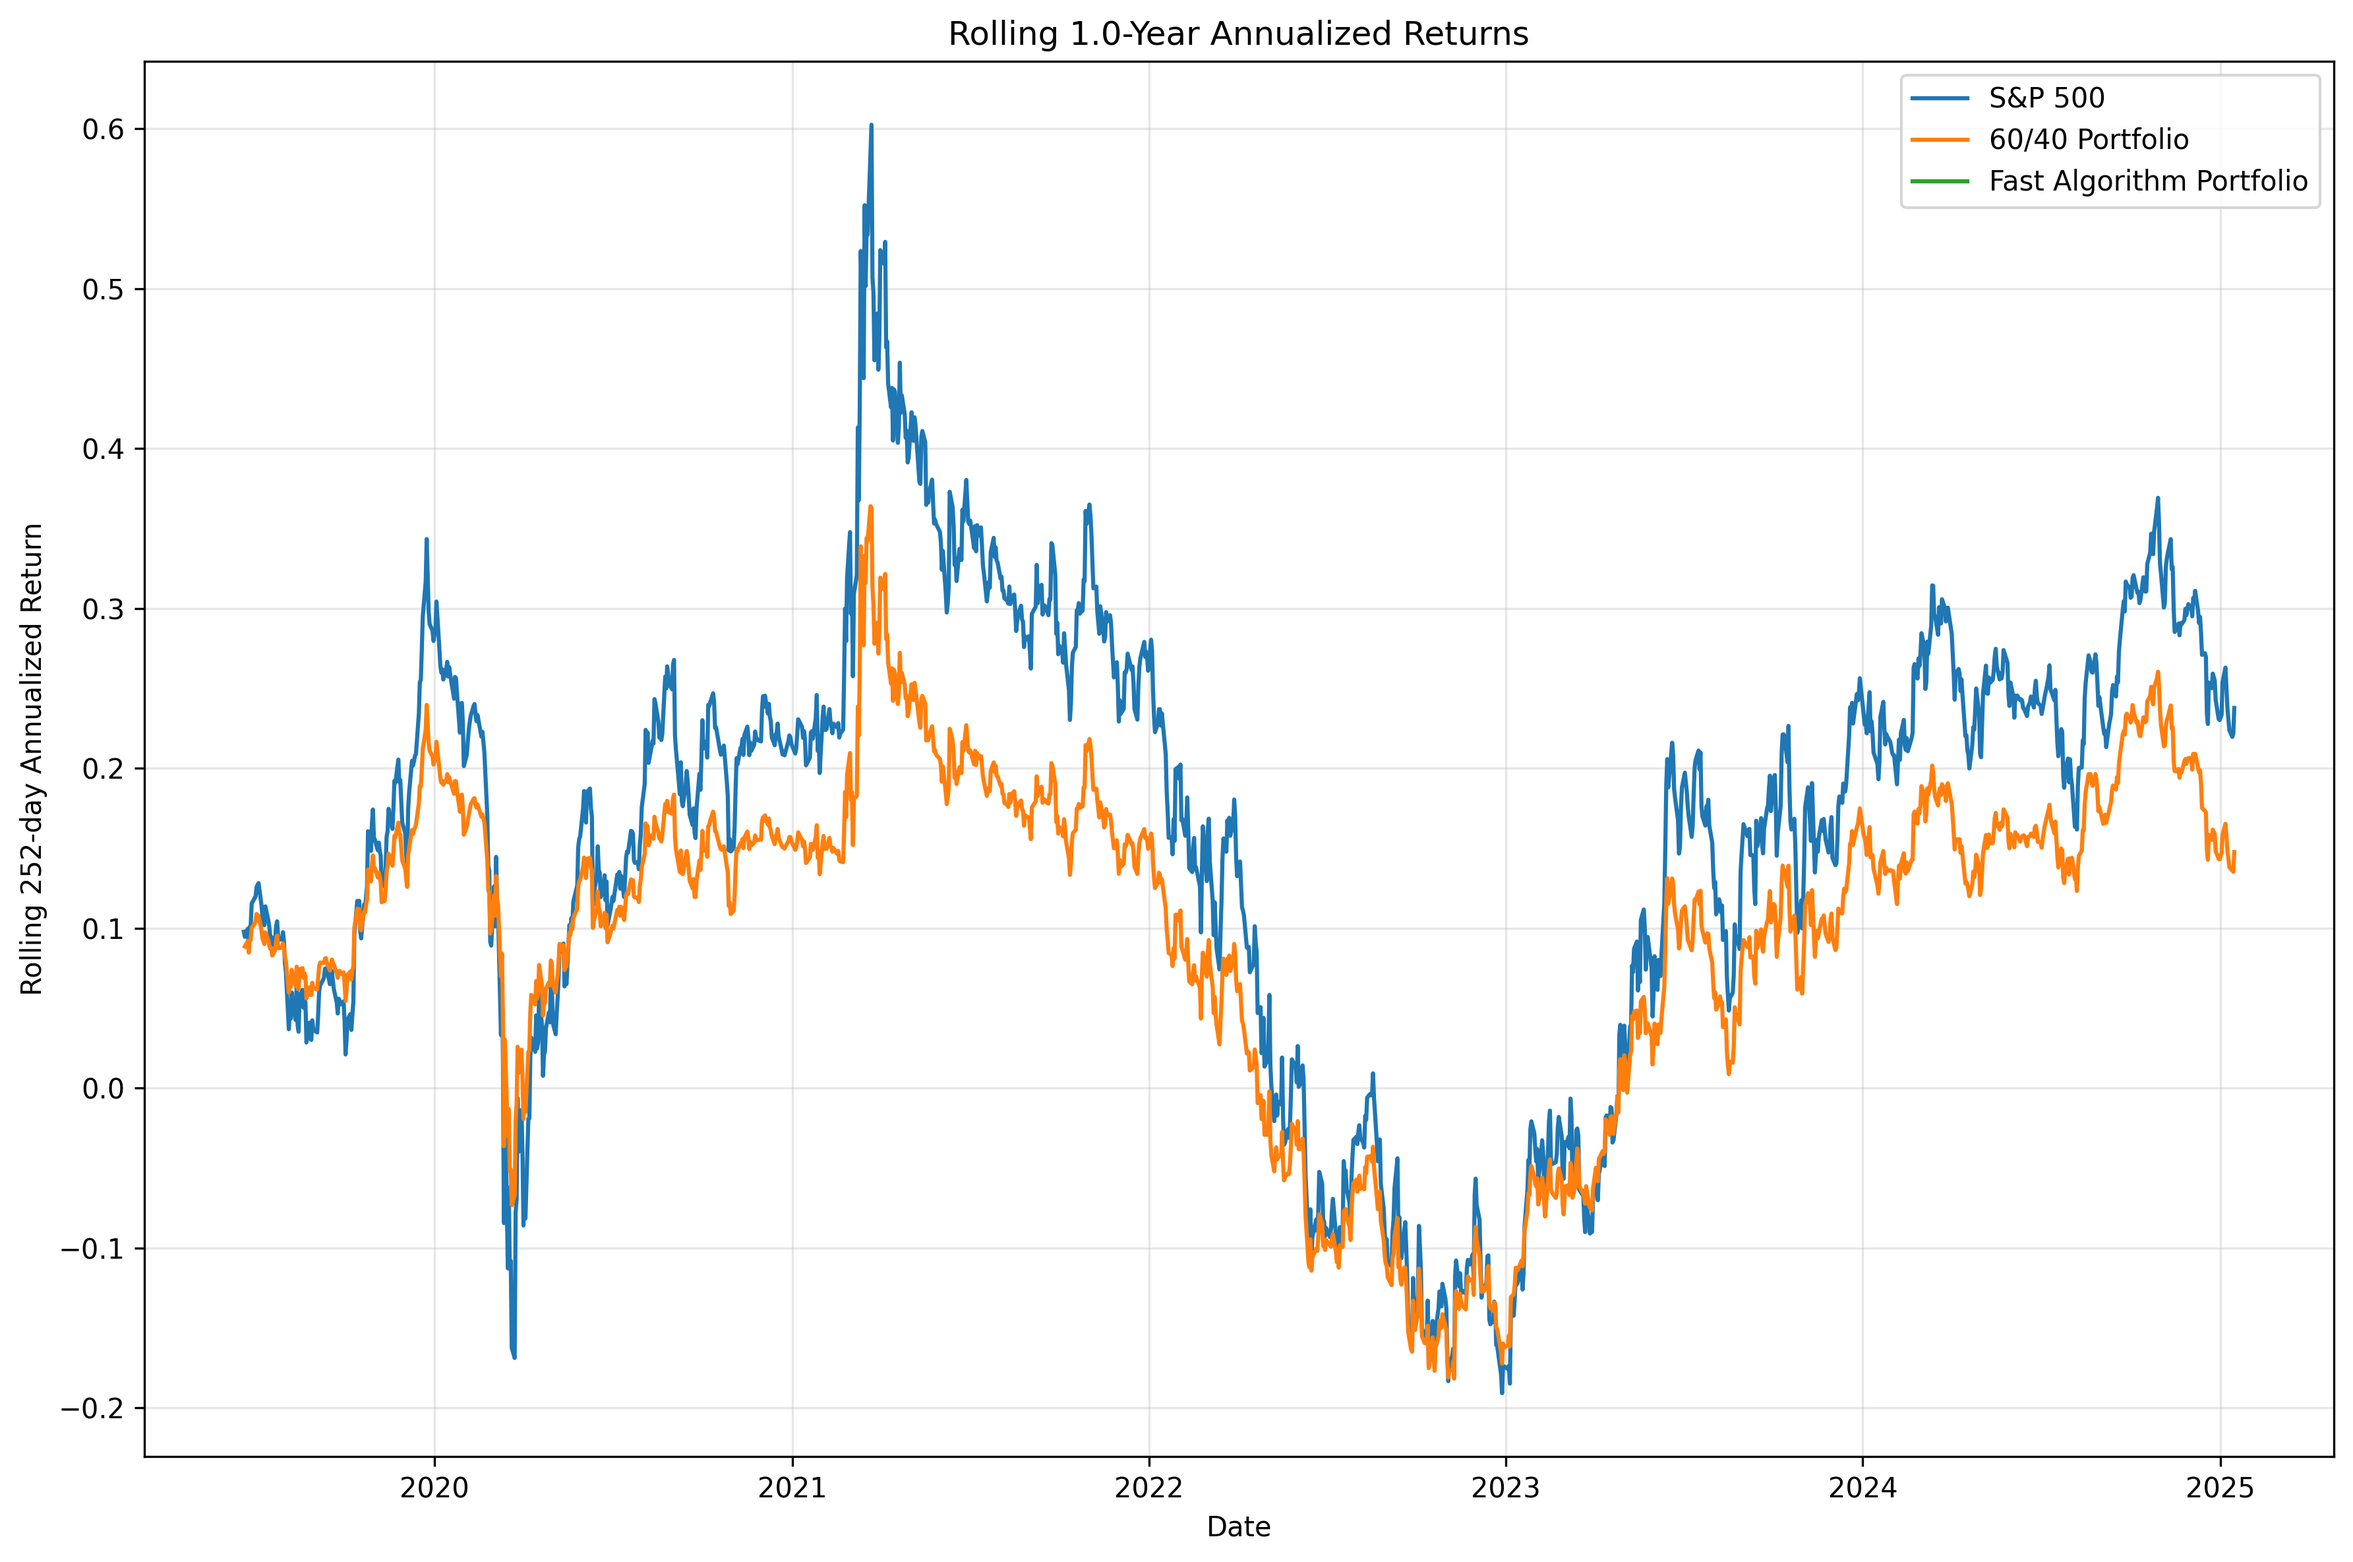
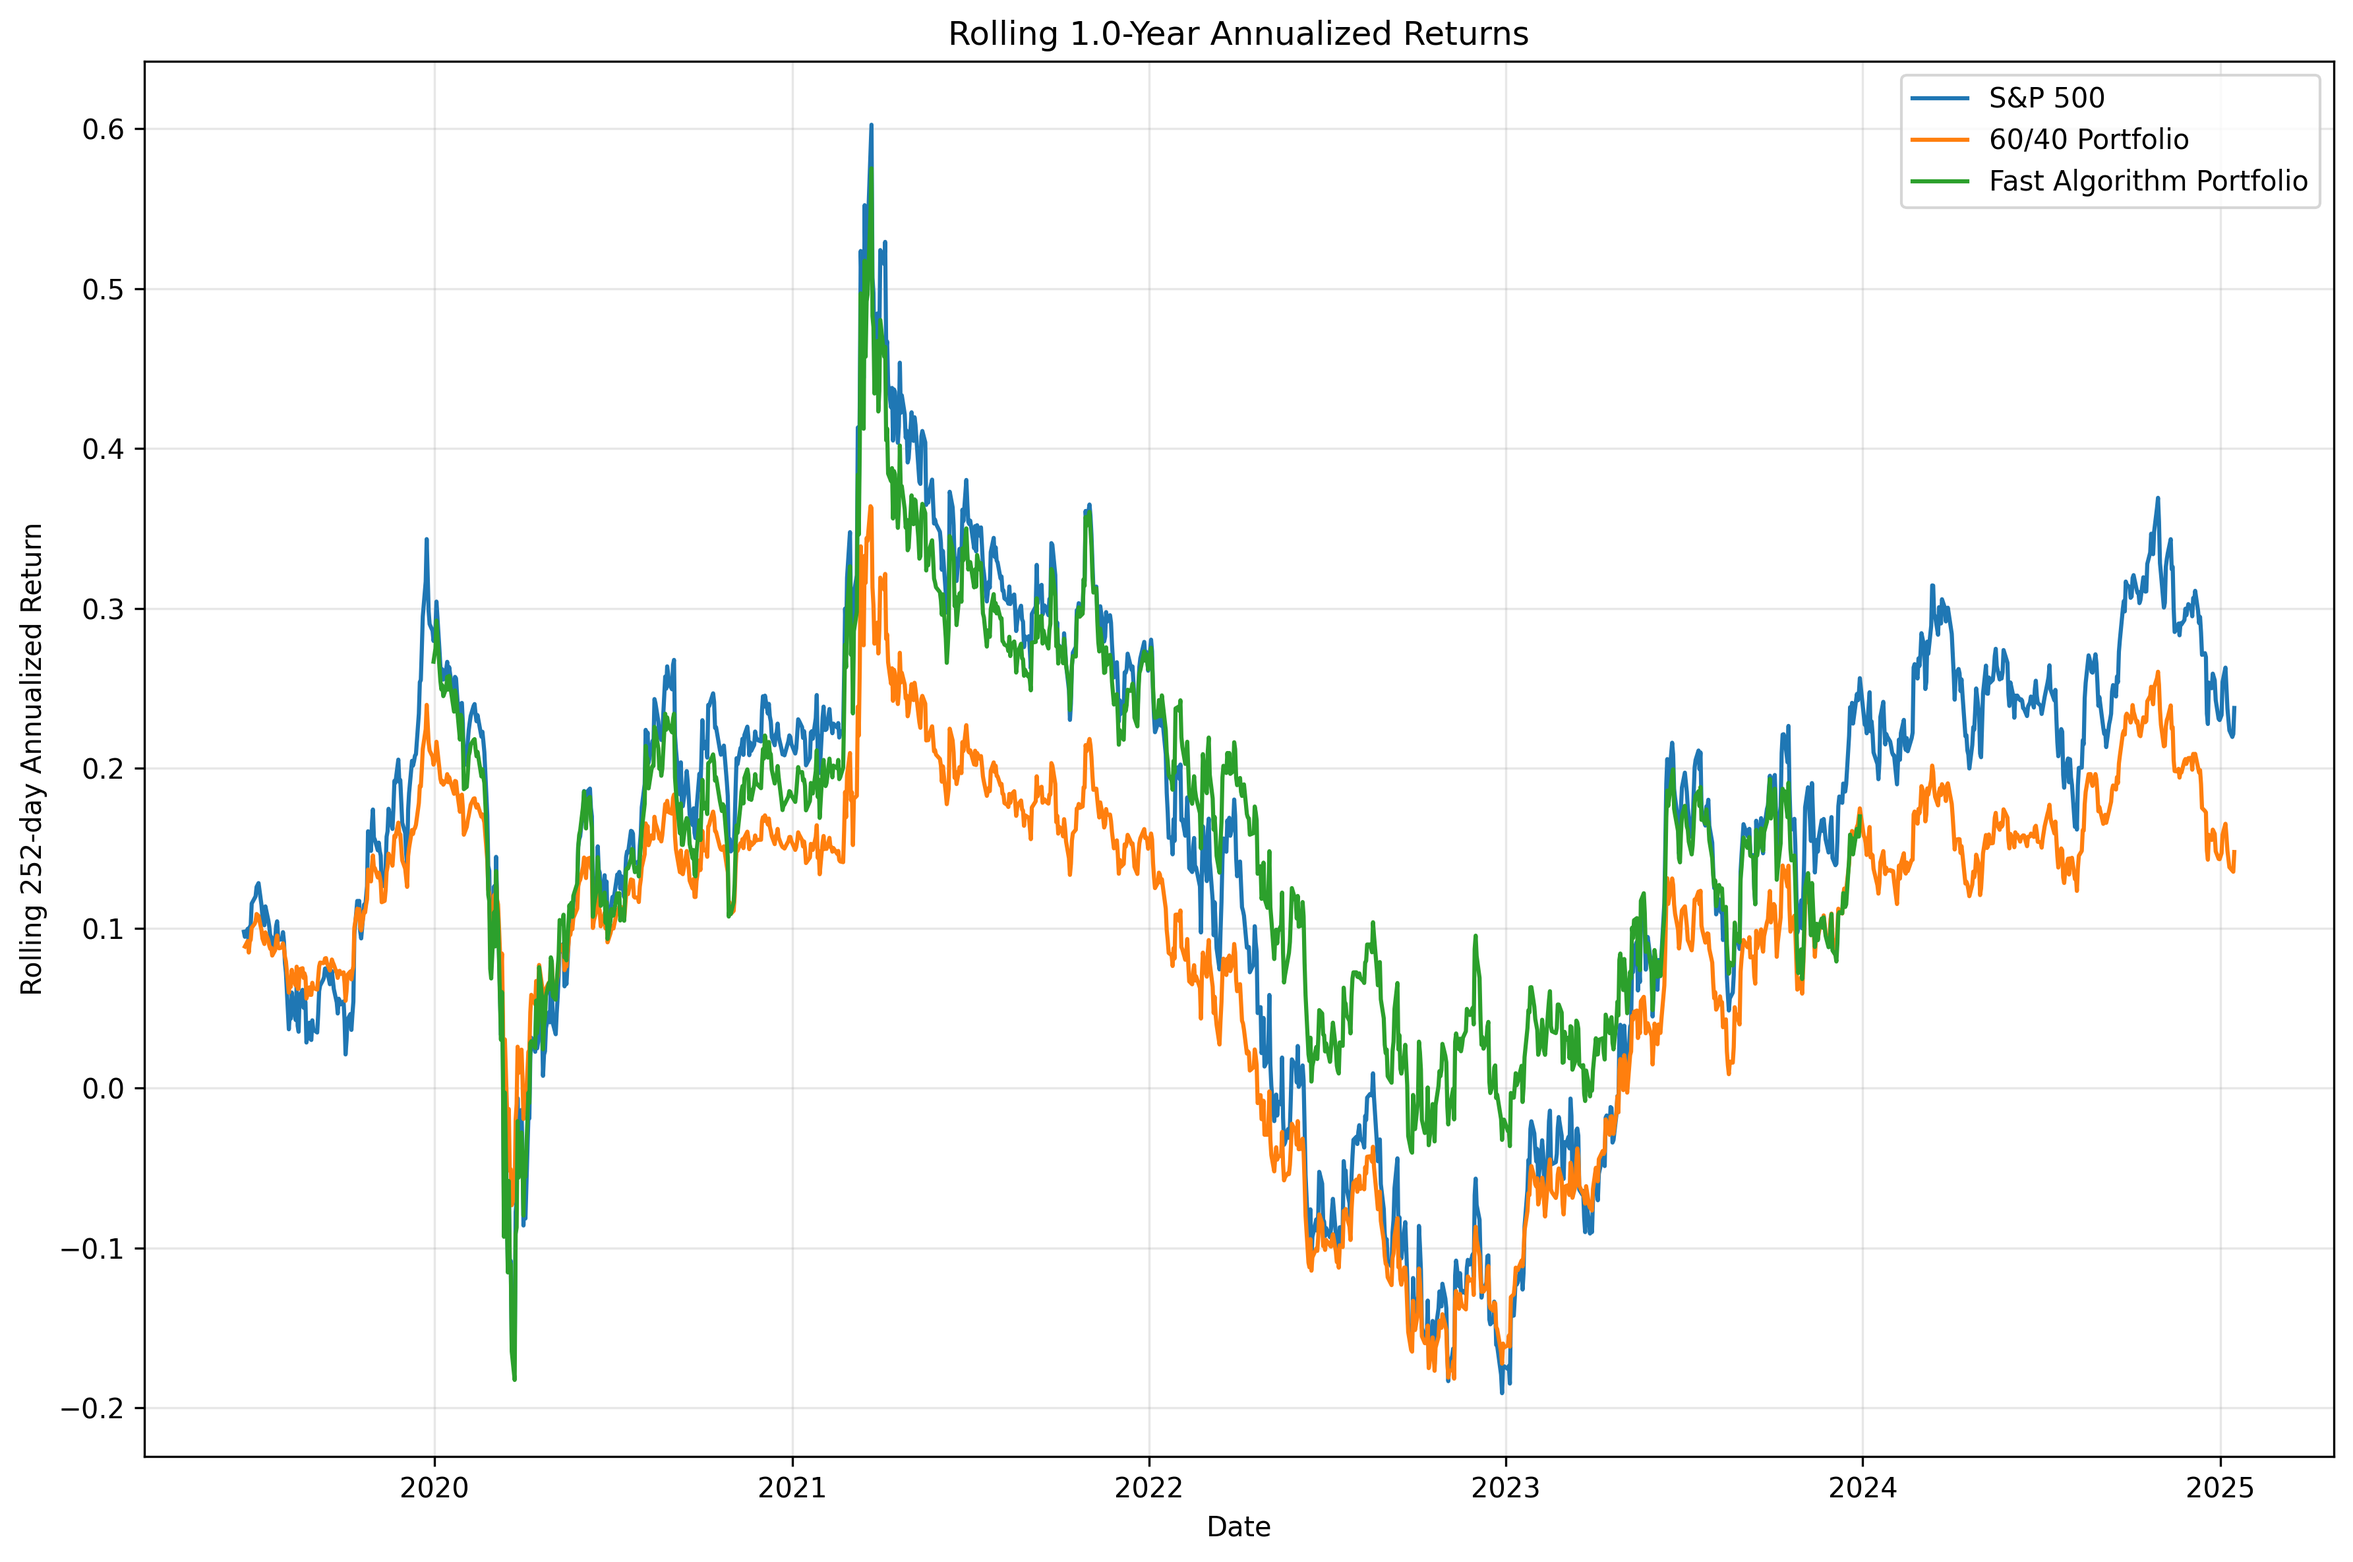
adding the ability to use dynamic max weights

diff --git a/src/optimization/fast_algorithm.py b/src/optimization/fast_algorithm.py
@@ -194,12 +194,55 @@ def fast_algorithm_portfolio(
     optimal_weights = pd.Series(result["x"], index=returns.index)
 
     # Apply minimum weight constraint (post-optimization)
-    if min_weight is not None:
-        # Set weights below min_weight to 0
-        tiny_weights = optimal_weights < min_weight
-        optimal_weights[tiny_weights] = 0
+    if min_weight is not None or max_weight is not None:
+        # Iteratively adjust weights to satisfy both min and max constraints
+        # This may take multiple iterations as enforcing one constraint can violate another
+        for _ in range(10):  # Limit iterations to avoid infinite loops
+            changed = False
 
-        # Rescale remaining weights to sum to 1
+            # Apply minimum weight constraint
+            if min_weight is not None:
+                # Set weights below min_weight to 0
+                tiny_weights = (optimal_weights > 0) & (optimal_weights < min_weight)
+                if any(tiny_weights):
+                    optimal_weights[tiny_weights] = 0
+                    changed = True
+
+            # Rescale weights to sum to 1
+            if optimal_weights.sum() > 0:
+                optimal_weights = optimal_weights / optimal_weights.sum()
+
+            # Apply maximum weight constraint after rescaling
+            if max_weight is not None:
+                # Check if any weight exceeds max_weight
+                excess_weights = optimal_weights > max_weight
+                if any(excess_weights):
+                    # Set excess weights to max_weight
+                    excess_amount = sum(optimal_weights[excess_weights] - max_weight)
+                    optimal_weights[excess_weights] = max_weight
+
+                    # Distribute excess amount proportionally to non-maxed weights
+                    non_max_weights = ~excess_weights & (optimal_weights > 0)
+                    if any(non_max_weights):
+                        # Calculate how much we can add to each non-maxed weight
+                        available_weights = optimal_weights[non_max_weights]
+                        available_capacity = sum(max_weight - available_weights)
+
+                        if available_capacity > 0:
+                            # Distribute excess proportionally to available capacity
+                            distribution_ratio = min(
+                                1, excess_amount / available_capacity
+                            )
+                            optimal_weights[non_max_weights] += distribution_ratio * (
+                                max_weight - available_weights
+                            )
+                            changed = True
+
+            # If no changes were made in this iteration, we're done
+            if not changed:
+                break
+
+        # Final rescale to ensure sum to 1
         if optimal_weights.sum() > 0:
             optimal_weights = optimal_weights / optimal_weights.sum()
 

diff --git a/results/analysis/benchmark_analysis.md b/results/analysis/benchmark_analysis.md
@@ -8,15 +8,15 @@
 |:-------------------------|---------------:|--------------------:|------------------------:|---------------:|---------------:|----------------------:|-----------:|-----------:|
 | S&P 500                  |       1.38652  |            0.164062 |                0.196151 |       0.734443 |      -0.337173 |            -0.0184559 |  -0.530175 |    11.9544 |
 | 60/40 Portfolio          |       0.782242 |            0.100394 |                0.122469 |       0.656448 |      -0.211871 |            -0.0112389 |  -0.665305 |    14.6811 |
-| Fast Algorithm Portfolio |       0        |          nan        |              nan        |       0        |     nan        |           nan         | nan        |   nan      |
+| Fast Algorithm Portfolio |       1.14077  |            0.187318 |                0.195723 |       0.854871 |      -0.330251 |            -0.0164847 |  -0.525451 |    15.1121 |
 
 ## Return Correlations
 
-|                          |    S&P 500 |   60/40 Portfolio |   Fast Algorithm Portfolio |
-|:-------------------------|-----------:|------------------:|---------------------------:|
-| S&P 500                  |   1        |          0.977159 |                        nan |
-| 60/40 Portfolio          |   0.977159 |          1        |                        nan |
-| Fast Algorithm Portfolio | nan        |        nan        |                        nan |
+|                          |   S&P 500 |   60/40 Portfolio |   Fast Algorithm Portfolio |
+|:-------------------------|----------:|------------------:|---------------------------:|
+| S&P 500                  |  1        |          0.977159 |                   0.977352 |
+| 60/40 Portfolio          |  0.977159 |          1        |                   0.94943  |
+| Fast Algorithm Portfolio |  0.977352 |          0.94943  |                   1        |
 
 ## Benchmark Descriptions
 
